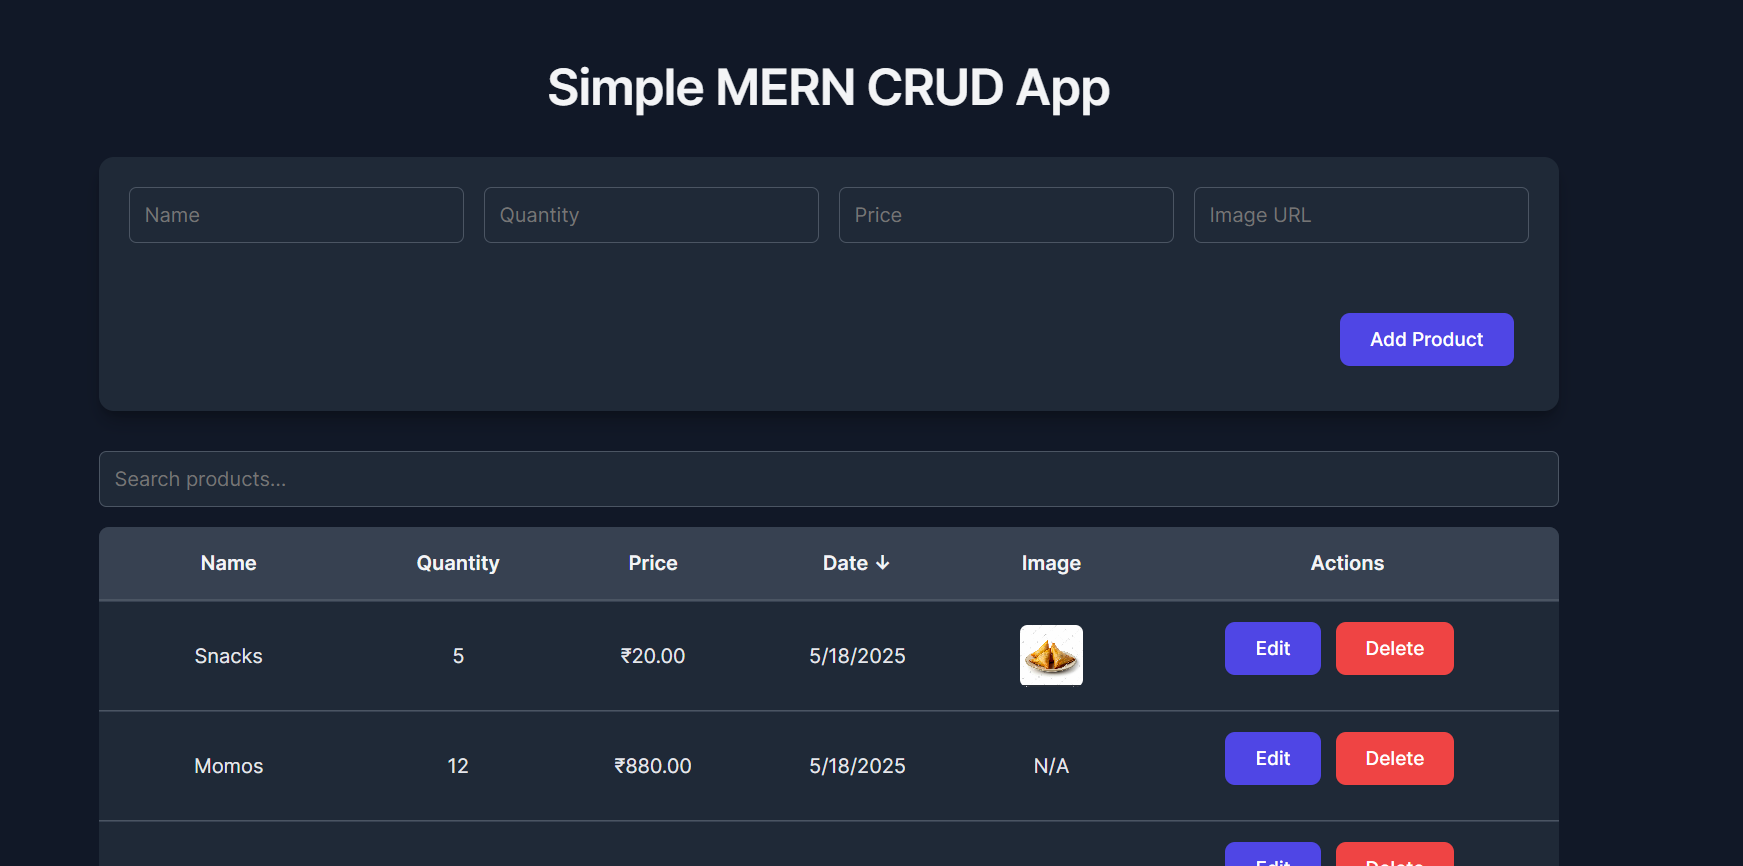
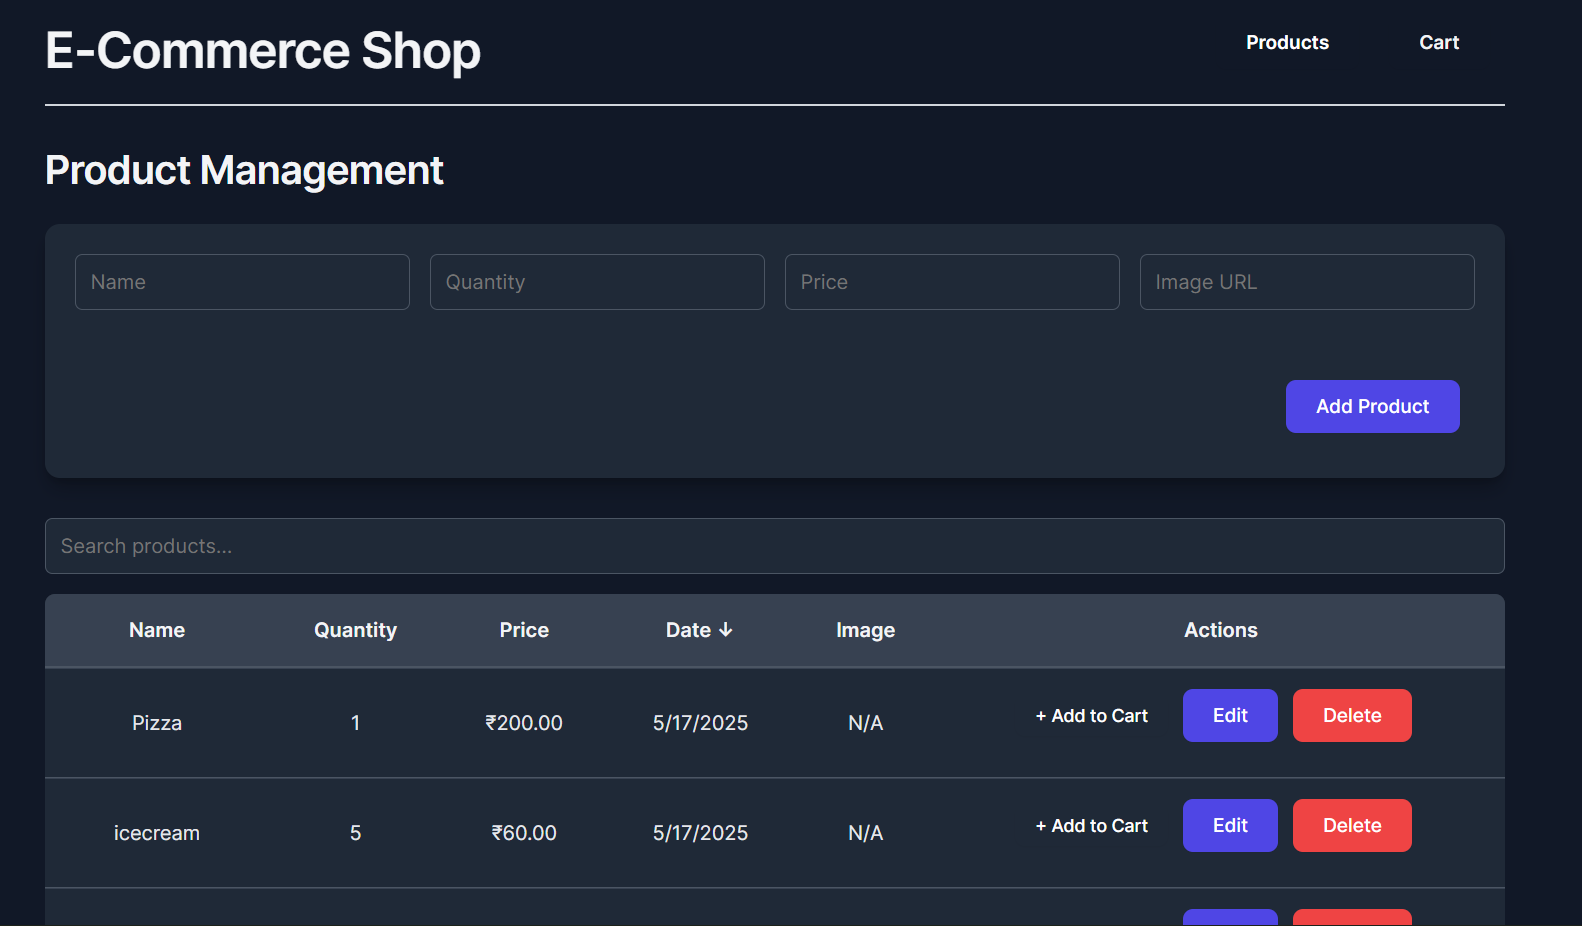
Updated Readme

diff --git a/README.md b/README.md
@@ -1,19 +1,42 @@
-# MERN CRUD APP
+# E-Commerce Shopping Cart Application
 
-![MERN CRUD Application](screenshots/crud-app.png)
+![MERN E-Commerce Application](screenshots/crud-app.png)
 
-A clean, responsive Product management application built with the MERN stack (MongoDB, Express.js, React, Node.js) featuring complete CRUD operations, sorting, searching and pagination
+A full-featured e-commerce shopping cart application built with the MERN stack (MongoDB, Express.js, React, Node.js) featuring product management, shopping cart functionality, checkout process, and order management.
 
 ## ✨ Features
 
+### Product Management
 - **Complete CRUD Operations** - Create, Read, Update, and Delete Products
-- **Real-time Data Management** - Instantly see changes in the Product list
-- **Responsive Design** - Works on desktop and mobile devices
-- **Sorting & Filtering** - Sort by name, price, quantity or date
-- **Search Functionality** - Find Products quickly with the search bar
-- **Pagination** - Navigate through Products easily with paginated results
-- **Form Validation** - Ensures data integrity
-- **Alert Notifications** - Provides feedback on all operations
+- **Real-time Data Management** - Instantly see changes in the product list
+- **Sorting & Filtering** - Sort by name, price, quantity, or date
+- **Search Functionality** - Find products quickly with the search bar
+- **Pagination** - Navigate through products easily (10 items per page)
+- **Form Validation** - Ensures data integrity (price and quantity > 0)
+
+### Shopping Cart
+- **Add to Cart** - Add products directly from the product list
+- **Cart Badge** - Real-time cart item count in navigation
+- **Quantity Controls** - Increase/decrease item quantities
+- **Remove Items** - Remove individual items or clear entire cart
+- **Cart Persistence** - Cart data stored in MongoDB
+- **Subtotal Calculation** - Automatic price calculations
+
+### Checkout & Orders
+- **Checkout Form** - Customer name and email validation
+- **Mock Payment** - Simulated payment processing
+- **Order Confirmation** - Receipt modal with order details
+- **Order Number Generation** - Unique order identifiers
+- **Order Persistence** - All orders saved to database
+- **Email Notifications** - Order confirmation with customer details
+
+### UI/UX
+- **Responsive Design** - Works on desktop, tablet, and mobile devices
+- **Navigation** - Switch between Products and Cart views
+- **Alert Notifications** - Real-time feedback on all operations
+- **Empty States** - Helpful messages when cart is empty
+- **Modal Dialogs** - Checkout and receipt modals
+- **Currency Display** - All prices in Indian Rupees (₹)
 
 ## 🚀 Tech Stack
 
@@ -25,13 +48,13 @@ A clean, responsive Product management application built with the MERN stack (Mo
   <tr>
     <td><strong>Frontend</strong></td>
     <td>
-      React, Vite, CSS
+      React 19, Vite 6, Axios, CSS3
     </td>
   </tr>
   <tr>
     <td><strong>Backend</strong></td>
     <td>
-      Node.js, Express.js, Mongoose
+      Node.js, Express.js, Mongoose, CORS
     </td>
   </tr>
   <tr>
@@ -48,8 +71,9 @@ A clean, responsive Product management application built with the MERN stack (Mo
   </tr>
 </table>
 
-## Product Schema
+## 📊 Database Schemas
 
+### Product Schema
    ```javascript
    {
      name: {
@@ -58,11 +82,11 @@ A clean, responsive Product management application built with the MERN stack (Mo
      },
      quantity: {
        type: Number,
-       required: true,
+       required: true
      },
      price: {
        type: Number,
-       required: true,
+       required: true
      },
      imageUrl: {
        type: String,
@@ -74,56 +98,225 @@ A clean, responsive Product management application built with the MERN stack (Mo
    }
    ```
 
+### Cart Item Schema
+   ```javascript
+   {
+     productId: {
+       type: mongoose.Schema.Types.ObjectId,
+       ref: 'Product',
+       required: true
+     },
+     name: String,
+     price: Number,
+     quantity: {
+       type: Number,
+       required: true,
+       min: 1
+     },
+     imageUrl: String
+   },
+   {
+     timestamps: true
+   }
+   ```
+
+### Order Schema
+   ```javascript
+   {
+     items: [{
+       productId: ObjectId,
+       name: String,
+       price: Number,
+       quantity: Number,
+       imageUrl: String
+     }],
+     customerName: {
+       type: String,
+       required: true
+     },
+     customerEmail: {
+       type: String,
+       required: true
+     },
+     totalAmount: {
+       type: Number,
+       required: true
+     },
+     orderNumber: {
+       type: String,
+       required: true,
+       unique: true
+     }
+   },
+   {
+     timestamps: true
+   }
+   ```
+
+## 🔌 API Endpoints
+
+### Products
+- `GET /api/products` - Get all products
+- `GET /api/products/:id` - Get single product
+- `POST /api/products` - Create new product
+- `PUT /api/products/:id` - Update product
+- `DELETE /api/products/:id` - Delete product
+
+### Cart
+- `GET /api/cart` - Get all cart items
+- `POST /api/cart` - Add item to cart
+- `PUT /api/cart/:id` - Update cart item quantity
+- `DELETE /api/cart/:id` - Remove item from cart
+- `DELETE /api/cart` - Clear entire cart
+- `POST /api/cart/checkout` - Process checkout and create order
+
+## 🛠 Local Development
+
+### Prerequisites
+- Node.js (v16 or higher)
+- MongoDB Atlas account
+- npm or yarn
+
+### Backend Setup
+
+1. Clone the repository:
+   ```bash
+   git clone https://github.com/Aaryan-Sharma-5/crud-app.git
+   cd crud-app/backend
+   ```
+
+2. Install dependencies:
+   ```bash
+   npm install
+   ```
+
+3. Create `.env` file:
+   ```bash
+   MONGODB_URI=your_mongodb_connection_string
+   PORT=3000
+   ```
+
+4. Start the backend server:
+   ```bash
+   npm start
+   ```
+
+### Frontend Setup
+
+1. Navigate to frontend directory:
+   ```bash
+   cd ../frontend
+   ```
+
+2. Install dependencies:
+   ```bash
+   npm install
+   ```
+
+3. Create `.env.development` file:
+   ```bash
+   VITE_API_URL=http://localhost:3000
+   ```
+
+4. Start the development server:
+   ```bash
+   npm run dev
+   ```
+
+5. Open your browser to `http://localhost:5173`
+
 ## 🌐 Deployment
 
 ### Backend Deployment (Vercel)
 
-1. Create `vercel.json` file in the backend directory:
-   ```javascript
+1. Create `vercel.json` in the backend directory:
+   ```json
    {
-    "version": 2,
-    "builds": [
-      {
-        "src": "index.js",
-        "use": "@vercel/node"
-      }
-    ],
-    "routes": [
-      {
-        "src": "/(.*)",
-        "dest": "/index.js",
-        "headers": {
-          "Access-Control-Allow-Origin": "*",
-          "Access-Control-Allow-Methods": "GET, POST, PUT, DELETE, OPTIONS",
-          "Access-Control-Allow-Headers": "Content-Type, Authorization, X-Requested-With"
-        }
-      }
-    ]
+     "version": 2,
+     "builds": [
+       {
+         "src": "index.js",
+         "use": "@vercel/node"
+       }
+     ],
+     "routes": [
+       {
+         "src": "/(.*)",
+         "dest": "/index.js"
+       }
+     ]
    }
    ```
 
-2. Add the environment variables:
+2. Add environment variables in Vercel dashboard:
    ```bash
    MONGODB_URI=your_mongodb_connection_string
-   FRONTEND_URL=https://your-frontend-url.vercel.app
    ```
 
-3. Deploy to Vercel:
+3. Deploy:
    ```bash
+   cd backend
    vercel --prod
    ```
 
 ### Frontend Deployment (Vercel)
 
-1. Add the environment variables:
-   ```bash
-   VITE_API_URL=https://your-backend-url.vercel.app/api/Products
+1. Create `vercel.json` in the frontend directory:
+   ```json
+   {
+     "buildCommand": "npm run build",
+     "outputDirectory": "dist",
+     "framework": "vite",
+     "installCommand": "npm install"
+   }
    ```
 
-2. Deploy to Vercel:
+2. Create `.env.production` file:
    ```bash
+   VITE_API_URL=https://your-backend-url.vercel.app
+   ```
+
+3. Deploy:
+   ```bash
+   cd frontend
    vercel --prod
    ```
+
+## 📸 Screenshots
+
+### Product Management
+![Product List](screenshots/products.png)
+
+### Shopping Cart
+![Shopping Cart](screenshots/cart.png)
+
+### Checkout Process
+![Checkout](screenshots/checkout.png)
+
+### Order Receipt
+![Receipt](screenshots/receipt.png)
+
+## 🎯 Future Enhancements
+
+- [ ] User authentication and registration
+- [ ] User-specific carts (multi-user support)
+- [ ] Product categories and filtering
+- [ ] Product reviews and ratings
+- [ ] Wishlist functionality
+- [ ] Order history for users
+- [ ] Payment gateway integration
+- [ ] Admin dashboard
+- [ ] Inventory management
+- [ ] Email notifications
+- [ ] Product search with autocomplete
+
+## 📝 License
+
+This project is open source and available under the [MIT License](LICENSE).
+
+## 🤝 Contributing
+
+Contributions, issues, and feature requests are welcome! Feel free to check the [issues page](https://github.com/Aaryan-Sharma-5/crud-app/issues).
 
 ---
 
